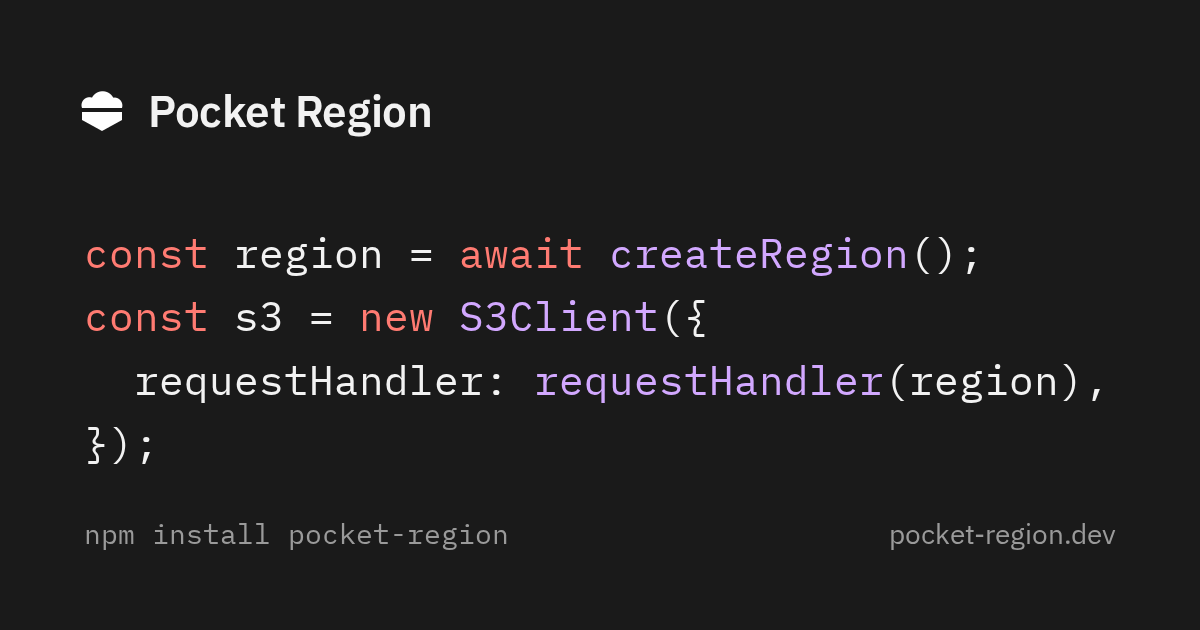
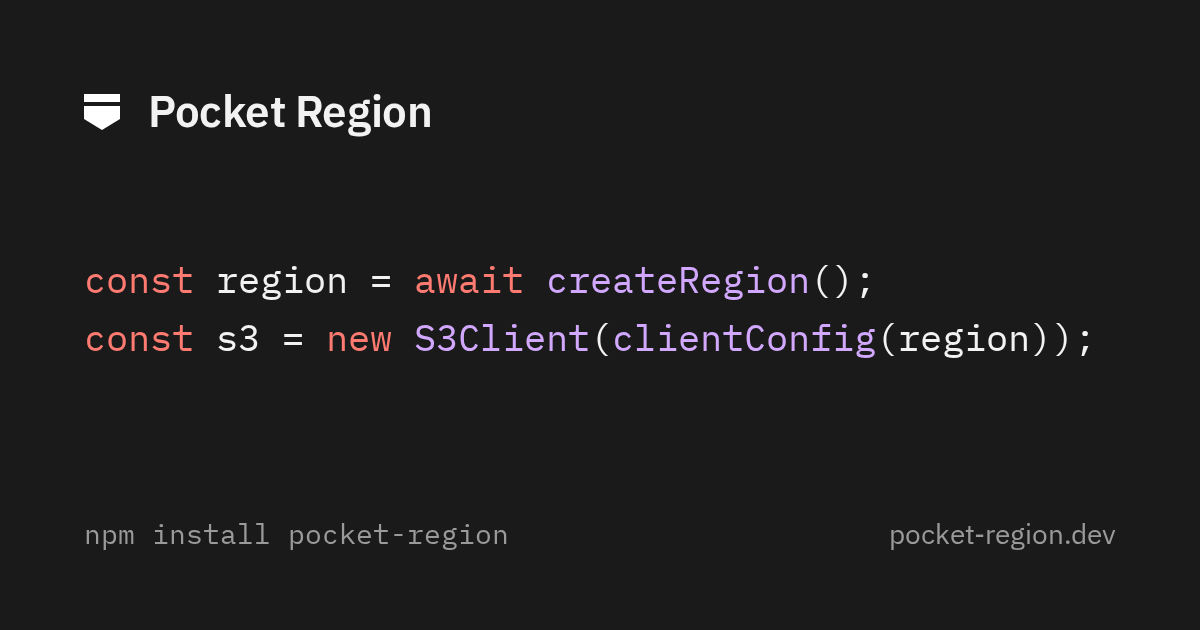
docs: use clientConfig instead of requestHandler

Changed region(s): [[0.0617, 0.3619, 0.925, 0.6333], [0.0617, 0.6937, 0.1233, 0.754], [0.0617, 0.1508, 0.1233, 0.2111]]

diff --git a/site/src/content/docs/docs/clients.md b/site/src/content/docs/docs/clients.md
@@ -1,41 +1,67 @@
 ---
 title: Connecting clients
-description: requestHandler for AWS SDK clients, serve for anything that needs an endpoint, and dispatch underneath both.
+description: clientConfig and requestHandler for AWS SDK clients, serve for anything that needs an endpoint, and dispatch underneath both.
 ---
 
 A region has no endpoint of its own. There are three ways to reach it:
 
 | | Use it for |
 | --- | --- |
-| `requestHandler(region)` | AWS SDK v3 clients in the same process or page |
+| `clientConfig(region)`, `requestHandler(region)` | AWS SDK v3 clients in the same process or page |
 | `serve(region, options?)` | Anything that needs a URL: another process, another language, the real AWS CLI. Node only |
 | `region.dispatch(request)` | Raw wire-protocol requests, and wrapping a region |
 
 All three accept any object with a `dispatch` method, not only a region: a
 [`Dispatcher`](#dispatch).
 
-## `requestHandler`
+## `clientConfig`
+
+```ts
+clientConfig(region: Dispatcher): { region: string; credentials: object; requestHandler: RegionRequestHandler }
+```
+
+A region name, throwaway credentials, and the handler as one config, for the common case where
+nothing in the environment supplies the first two, such as a page.
+
+```js
+import { clientConfig, createRegion } from 'pocket-region/node';
+import { S3Client } from '@aws-sdk/client-s3';
+
+const region = await createRegion();
+const s3 = new S3Client(clientConfig(region));
+```
+
+The region name is `us-east-1` and the credentials are throwaway, since nothing checks them.
+Spread it to add settings of your own, such as `{ ...clientConfig(region), maxAttempts: 1 }`.
+A client made this way is what a [runner](/docs/runner/) snippet's clients get.
+
+### `requestHandler`
 
 ```ts
 requestHandler(region: Dispatcher): RegionRequestHandler
 ```
 
-Pass the result as `requestHandler` to any AWS SDK v3 client. Requests become function calls,
-so nothing listens and nothing is dialed.
+The handler on its own, for a client that already has a region and credentials. It's the single
+setting to add to an existing Node client, which takes those from the environment or `~/.aws` as
+usual. Requests become function calls, so nothing listens and nothing is dialed.
 
 ```js
 import { requestHandler } from 'pocket-region/node';
 import { S3Client } from '@aws-sdk/client-s3';
 
+// AWS_REGION and credentials as usual, from the environment or ~/.aws
 const s3 = new S3Client({ requestHandler: requestHandler(region) });
 ```
 
-- **`region` and `credentials`** are still required, because the SDK refuses to build a request
-  without them, but any values do. The emulator routes a request by the credential scope in its
-  `Authorization` header and never checks the signature. In Node they can come from the
-  environment or `~/.aws` as usual; a page has to pass them, or use `clientConfig(region)`,
-  which is `requestHandler` plus `us-east-1` and throwaway credentials, as one config to pass or
-  spread.
+A region and credentials are still required, because the SDK refuses to build a request without
+them, but any values do. The emulator routes a request by the credential scope in its
+`Authorization` header and never checks the signature. A page has no environment to take them
+from, so it passes them itself, which is all `clientConfig` does.
+
+## Endpoints and bodies
+
+These hold for a client made either way.
+
 - **`endpoint`** isn't needed. Without one, the SDK addresses AWS's own host names, such as
   `photos.s3.us-east-1.amazonaws.com`, which the emulator understands, and nothing is dialed.
 - **With an `endpoint`** such as `http://localhost:4566`, S3 also needs `forcePathStyle: true`.

diff --git a/README.md b/README.md
@@ -6,15 +6,11 @@ function calls, without a socket, so there's no container to start and no server
 Lambda handlers run in child processes or Web Workers.
 
 ```js
-import { createRegion, requestHandler } from 'pocket-region/node';
+import { clientConfig, createRegion } from 'pocket-region/node';
 import { S3Client, CreateBucketCommand, PutObjectCommand } from '@aws-sdk/client-s3';
 
 const region = await createRegion();
-const s3 = new S3Client({
-  region: 'us-east-1',
-  credentials: { accessKeyId: 'test', secretAccessKey: 'test' },
-  requestHandler: requestHandler(region),
-});
+const s3 = new S3Client(clientConfig(region));
 
 await s3.send(new CreateBucketCommand({ Bucket: 'photos' }));
 await s3.send(new PutObjectCommand({ Bucket: 'photos', Key: 'cat.txt', Body: 'meow' }));
